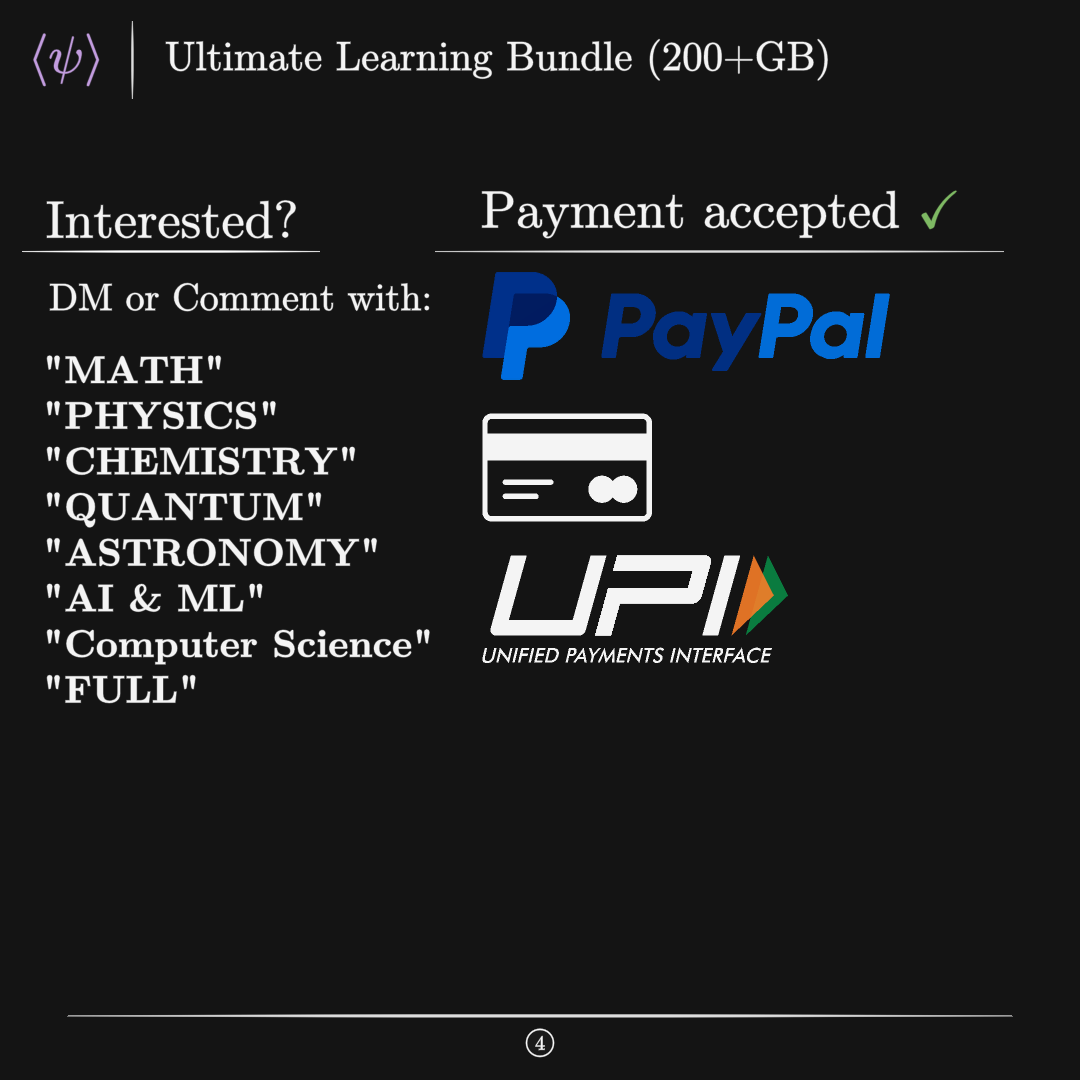
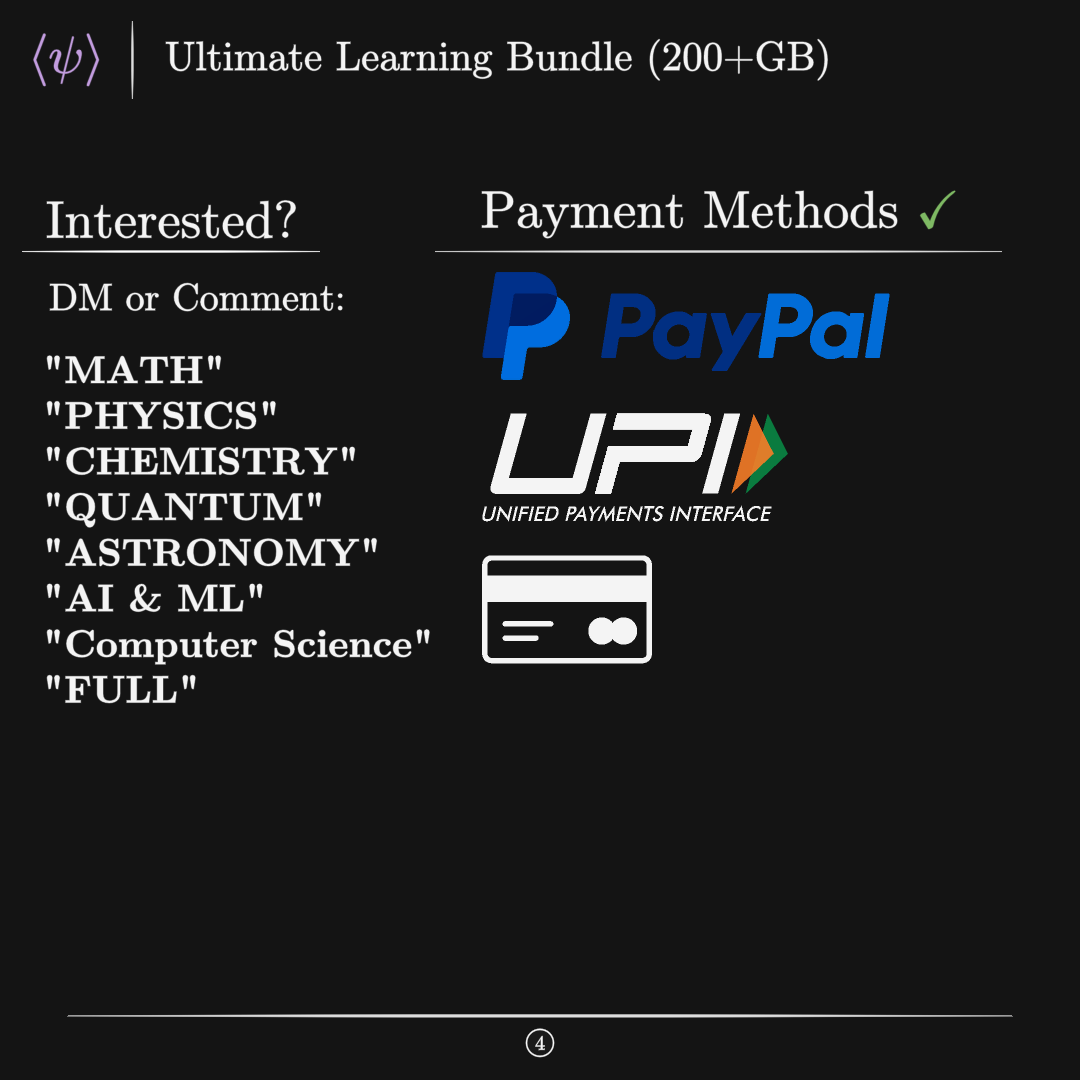
f

Changed region(s): [[0.4278, 0.3667, 0.7333, 0.6417], [0.6417, 0.1833, 0.8861, 0.2139], [0.3056, 0.2444, 0.3972, 0.3056]]

diff --git a/test.py b/test.py
@@ -157,7 +157,7 @@ class Payment(PaidTemplate):
 
         body = TexText(
             r"""
-            DM or Comment with:\\[0.25cm]
+            DM or Comment:\\[0.25cm]
             \textbf{"MATH"}\\
             \textbf{"PHYSICS"}\\
             \textbf{"CHEMISTRY"}\\
@@ -171,7 +171,7 @@ class Payment(PaidTemplate):
         body.next_to(title, DOWN, buff=MED_LARGE_BUFF * 0.67, aligned_edge=LEFT)
         self.add(body)
 
-        payment = TexText(R"Payment accepted $\checkmark$").scale(0.8)
+        payment = TexText(R"Payment Methods $\checkmark$").scale(0.8)
         payment[-1].set_color(GREEN)
 
         payment_un = Line(LEFT, RIGHT)
@@ -184,12 +184,12 @@ class Payment(PaidTemplate):
 
         svgs = VGroup(
             SVGMobject("paypal.svg"),
-            SVGMobject("debit.svg").set_color(WHITE),
-            SVGMobject("upi.svg")
+            SVGMobject("upi.svg"),
+            SVGMobject("debit.svg").set_color(WHITE)
         )
         svgs.scale(0.4)
         svgs.arrange(DOWN, buff=MED_SMALL_BUFF, aligned_edge=LEFT)
         svgs.next_to(payment, DOWN, aligned_edge=LEFT)
-        svgs[-1][0].set_color(WHITE)
-        svgs[-1][1].set_color(WHITE)
+        svgs[1][0].set_color(WHITE)
+        svgs[1][1].set_color(WHITE)
         self.add(svgs)

diff --git a/latex_cache/working.tex b/latex_cache/working.tex
@@ -27,6 +27,6 @@
 \begin{document}
 
 \centering
-Payment accepted $\checkmark$
+Payment Methods $\checkmark$
 
 \end{document}
